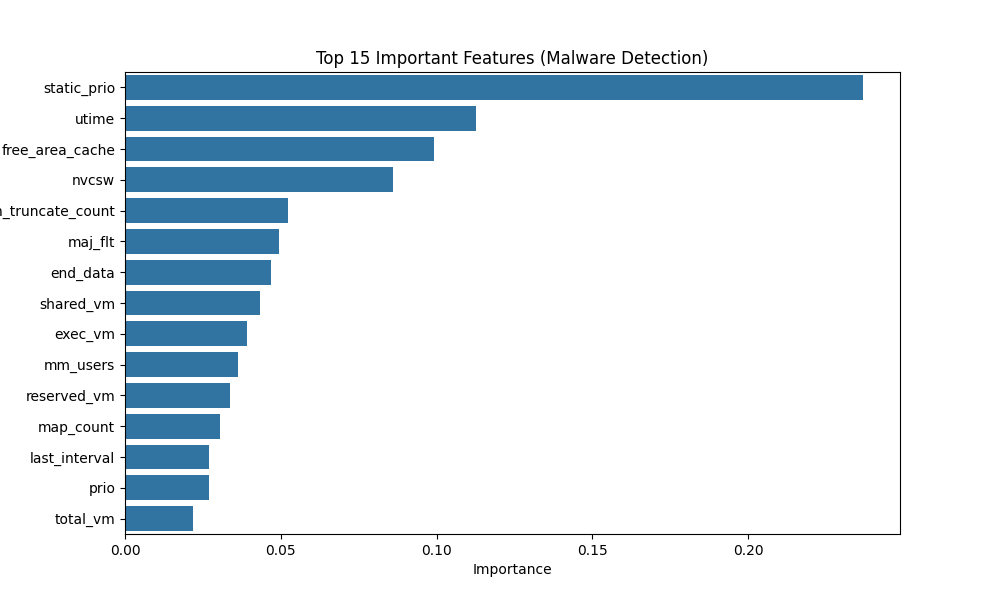
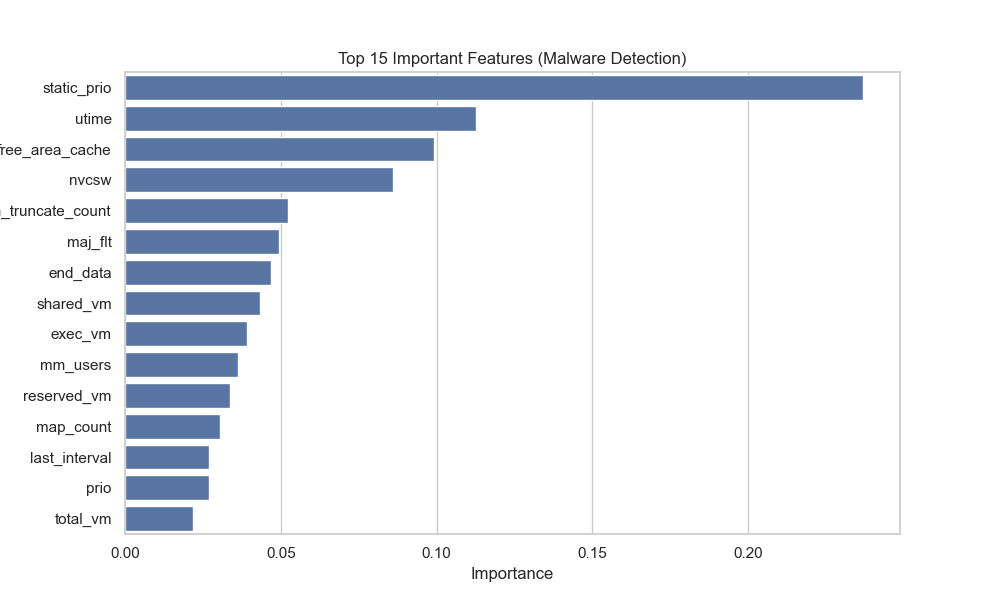
updated code to add a bar graph visual showcasing the disruption of good and bad data for both models

Changed region(s): [[0.0, 0.09, 0.899, 0.93], [0.465, 0.93, 0.558, 0.99]]

diff --git a/spam_detection.py b/spam_detection.py
@@ -13,6 +13,20 @@ df = pd.read_csv("data/spam_dataset.csv")
 print("Dataset size:", df.shape)
 print(df.head())
 
+# === Simple class distribution bar graph ===
+sns.set(style="whitegrid")
+plt.figure(figsize=(5, 4))
+class_counts = df["spam"].value_counts().sort_index()  # ensure 0 (ham) then 1 (spam)
+sns.barplot(x=["Ham", "Spam"], y=class_counts.values, palette=["#4CAF50", "#F44336"])
+plt.title("Dataset Class Distribution")
+plt.xlabel("Message Type")
+plt.ylabel("Count")
+for i, v in enumerate(class_counts.values):
+    plt.text(i, v + (v * 0.01), str(v), ha='center', fontweight='bold')
+plt.tight_layout()
+plt.savefig("results/spam_class_distribution.png")
+plt.show()
+
 # Split features + labels
 X = df["text"]
 y = df["spam"]
@@ -45,7 +59,17 @@ with open("results/spam_report.txt", "w") as f:
 
 # Confusion matrix
 cm = confusion_matrix(y_test, y_pred)
-sns.heatmap(cm, annot=True, fmt="d", cmap="Blues", xticklabels=["Ham", "Spam"], yticklabels=["Ham", "Spam"])
+sns.heatmap(
+    cm,
+    annot=True,
+    fmt="d",
+    cmap="Blues",
+    xticklabels=["Ham", "Spam"],
+    yticklabels=["Ham", "Spam"],
+)
 plt.title("Spam Detection Confusion Matrix")
+plt.xlabel("Predicted")
+plt.ylabel("Actual")
+plt.tight_layout()
 plt.savefig("results/spam_confusion_matrix.png")
 plt.show()

diff --git a/malware_detection.py b/malware_detection.py
@@ -16,6 +16,20 @@ if "hash" in df.columns:
 X = df.drop(columns=["classification"])
 y = df["classification"].map({"benign": 0, "malware": 1})  # encode labels
 
+# === Simple class distribution bar graph ===
+sns.set(style="whitegrid")
+plt.figure(figsize=(5, 4))
+class_counts = df["classification"].value_counts()
+sns.barplot(x=class_counts.index, y=class_counts.values, palette=["#4CAF50", "#F44336"])
+plt.title("Dataset Class Distribution")
+plt.xlabel("Class")
+plt.ylabel("Count")
+for i, v in enumerate(class_counts.values):
+    plt.text(i, v + (v * 0.01), str(v), ha='center', fontweight='bold')
+plt.tight_layout()
+plt.savefig("results/class_distribution.png")
+plt.show()
+
 # Train/test split
 X_train, X_test, y_train, y_test = train_test_split(
     X, y, test_size=0.2, random_state=42
